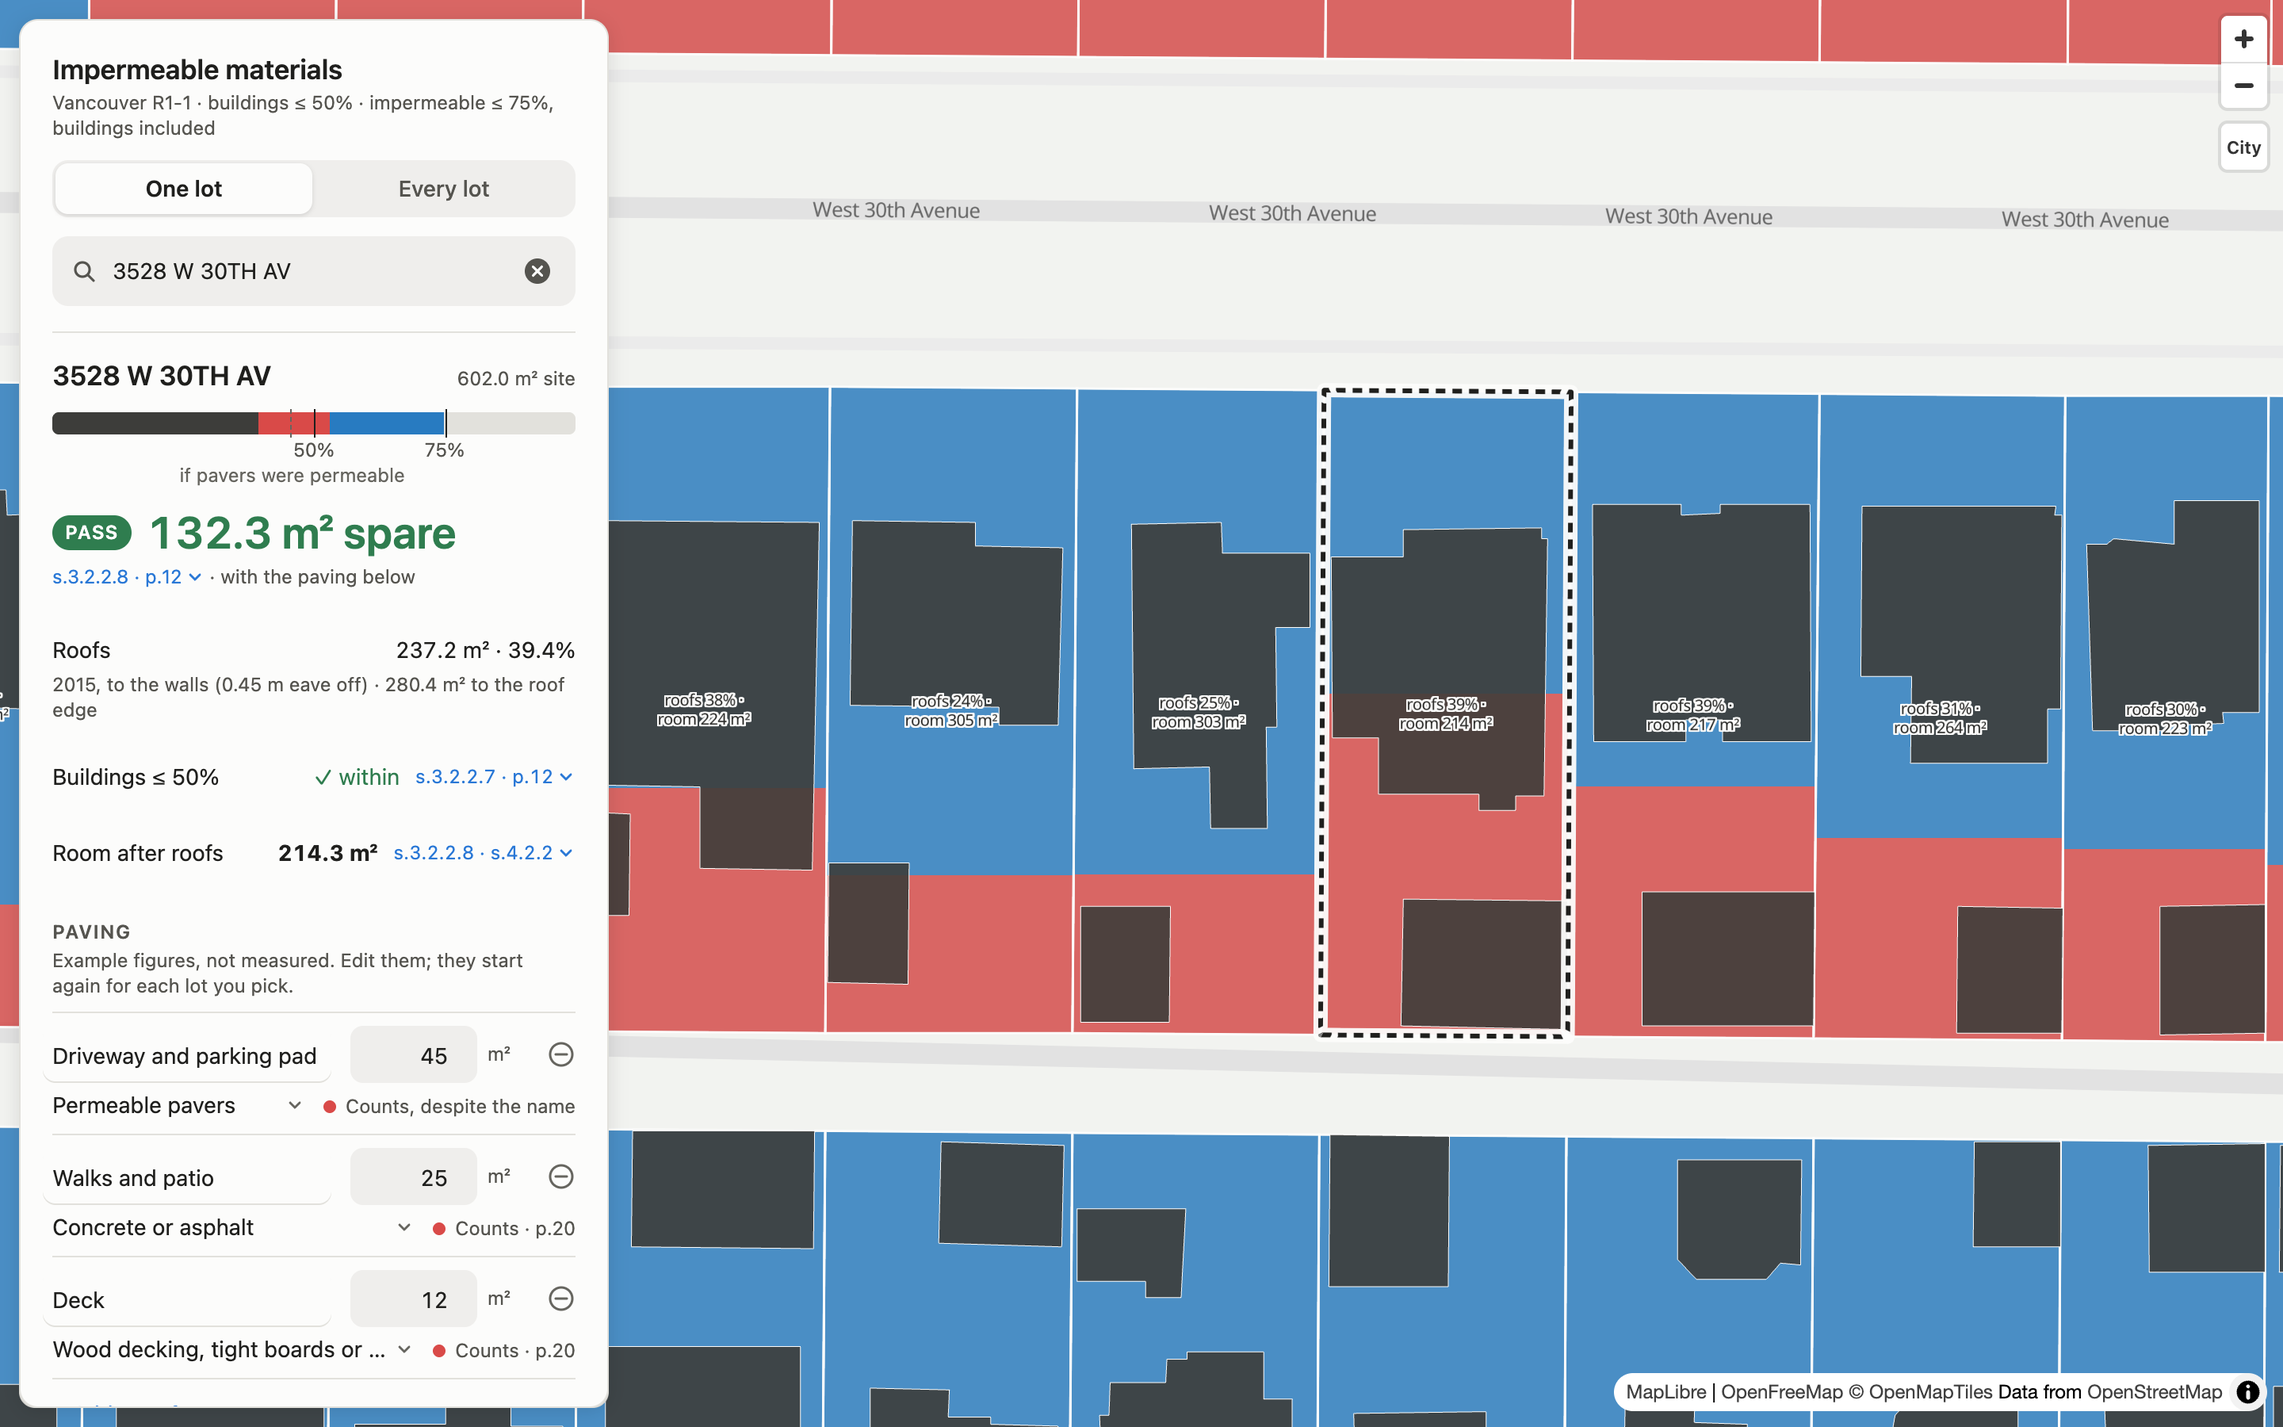
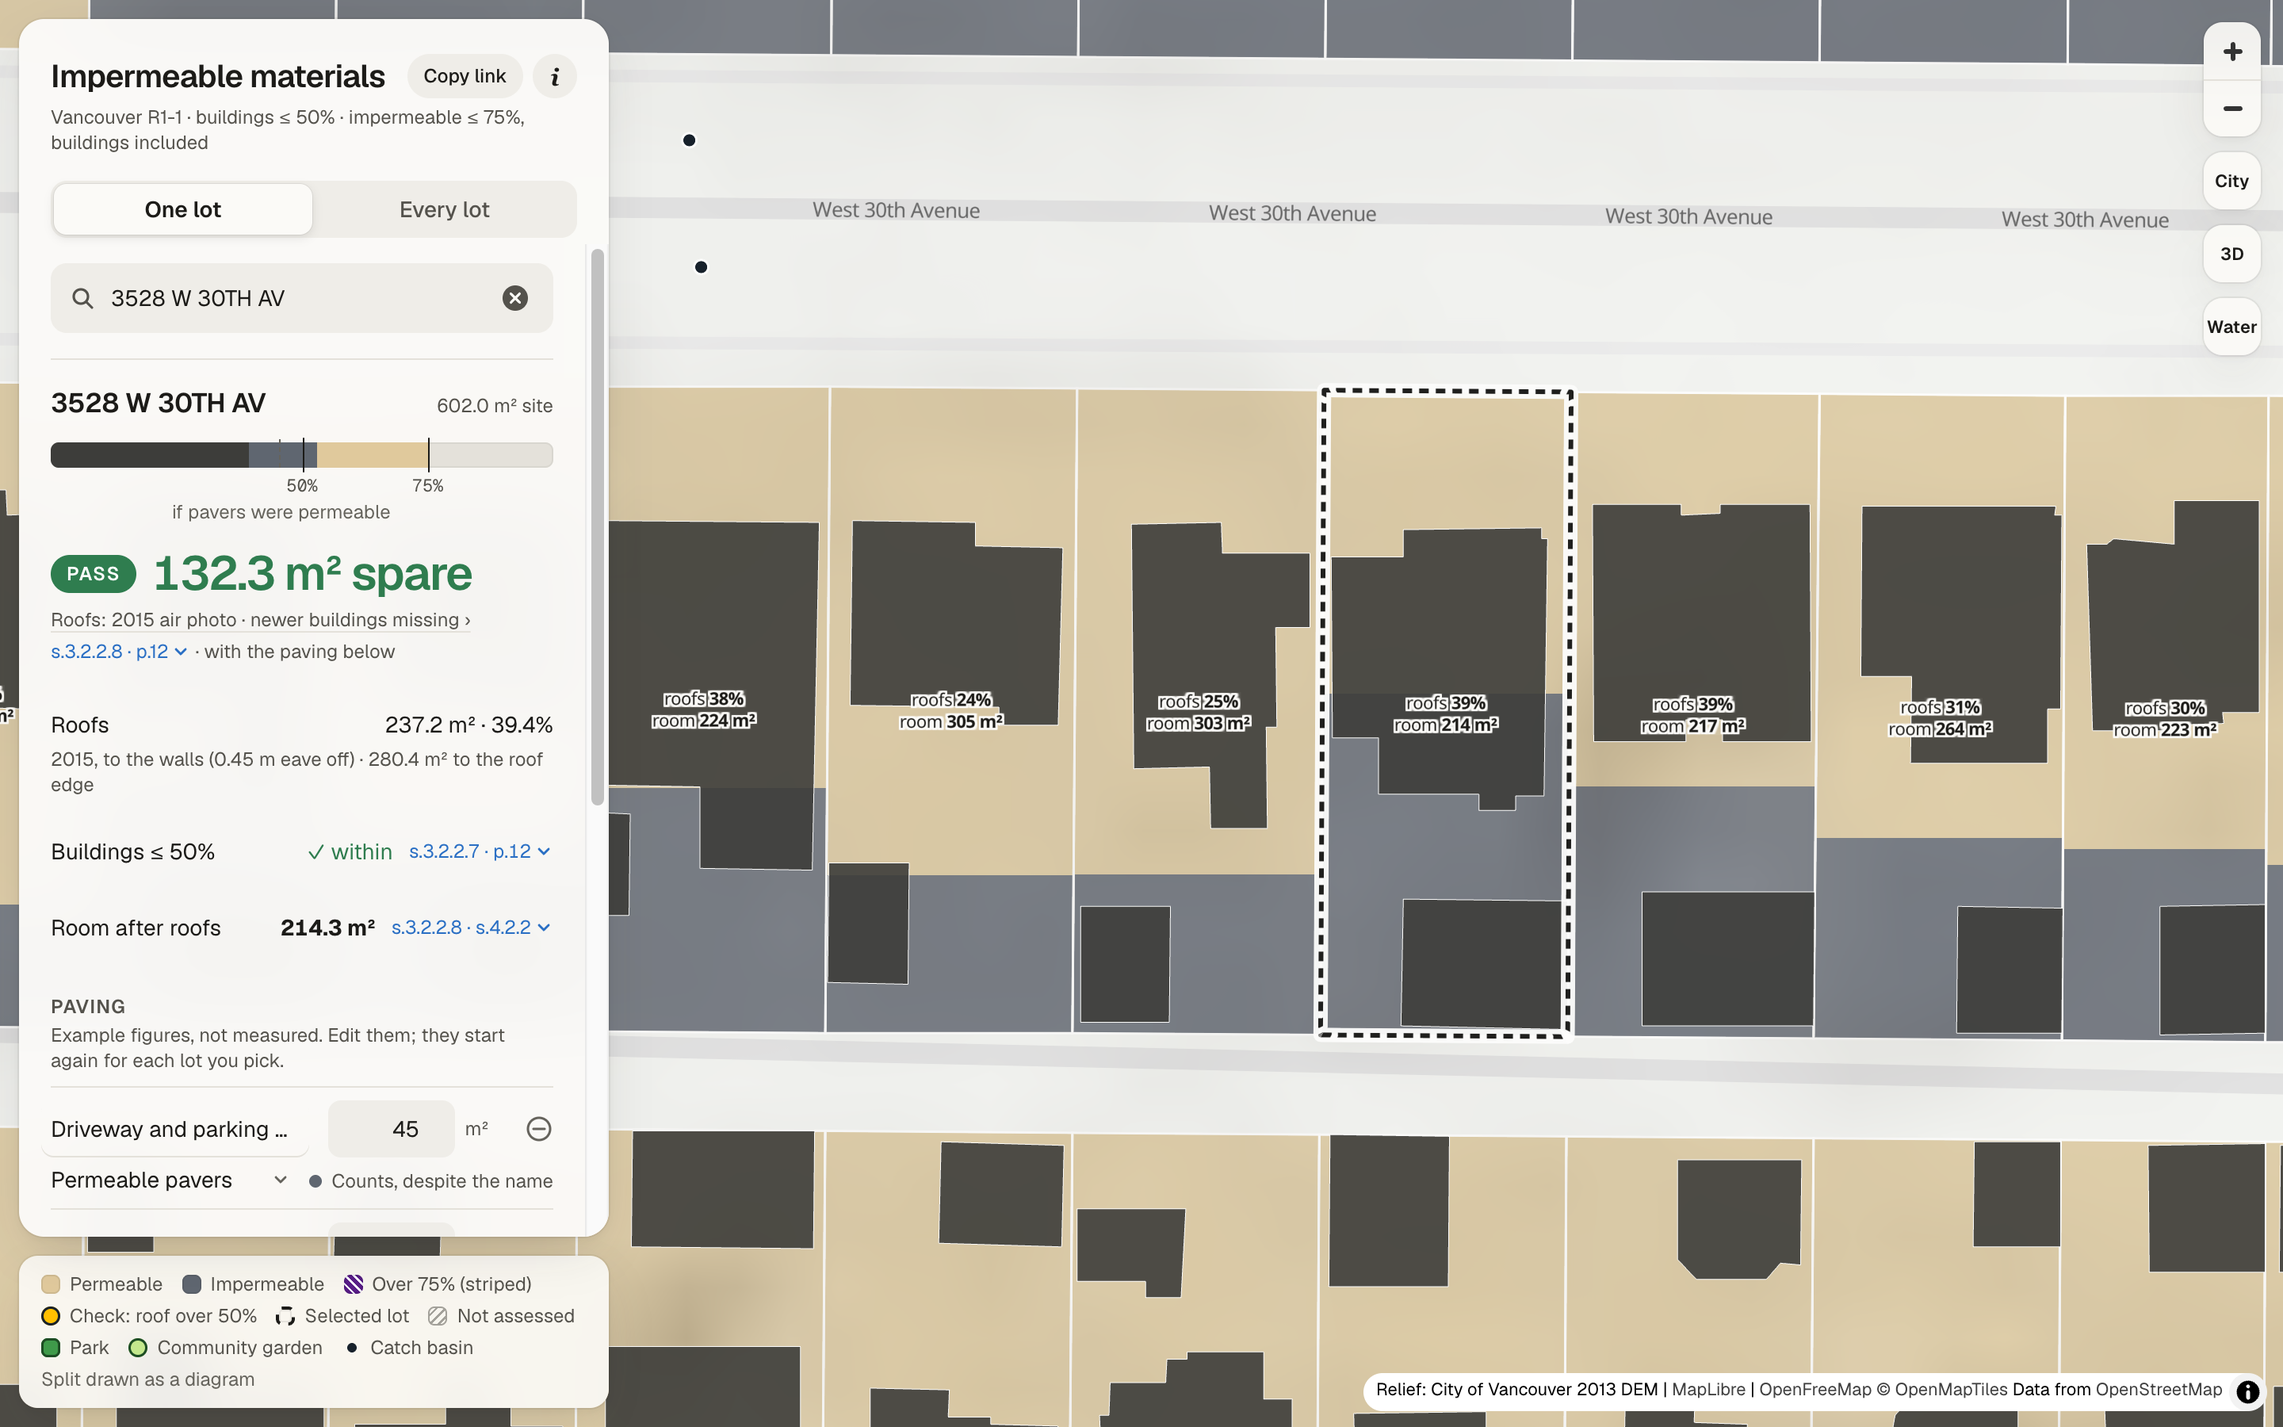
Bring the README up to date with the map
New counts (62,144 lots, 787 without a 2015 roof, 42,556 fit at the Rain
City point), sand/slate/striped-purple colours, the Rain City point and its
formula, the histogram, shareable links, the intro, the City/3D/Water views,
serve.py, the DEM scripts, and two fresh screenshots. Purpose is unchanged.

diff --git a/README.md b/README.md
@@ -25,17 +25,21 @@ Strategy climate goals.
 **In a browser.** Open the [live map](https://kevinjinn6.github.io/arch540-impermeable-materials/)
 on a laptop (it works on a phone, but the panel is easier on a wide screen).
 It needs an internet connection and loads about 8 MB of lot data, and the lot
-card fills in once it has loaded, opening up on 3528 W 30th Ave.
+card fills in once it has loaded, opening up on 3528 W 30th Ave. A short
+introduction appears on a first visit; the **i** button in the panel's header
+brings it back.
 
 1. **Pick a lot.** Click a lot on the map, or type a civic address in the
    search box the City's way (`3528 W 30TH AV` is the default lot, with suggestions that appear as you
    type) and press Enter. The map flies to it and draws a dashed line around
    it. The card leads with the answer: a bar where the whole site is 100%,
-   marked at 50% and 75% (dark is roof, red is paving, blue is room left,
-   purple is over the limit), then **PASS** or **FAIL** with the margin in
-   square metres. Under it: the 2015 roofs measured to the walls, the 50%
-   buildings rule, and the room s.3.2.2.8 leaves after the roofs. Tap any
-   blue reference, such as *s.3.2.2.8 · p.12*, to read that passage in place.
+   marked at 50% and 75% (dark is roof, slate is paving, sand is room left,
+   striped purple is over the limit), then **PASS** or **FAIL** with the
+   margin in square metres, and a reminder that the roofs come from the 2015
+   air photo (click it for the assumptions). Under it: the 2015 roofs
+   measured to the walls, the 50% buildings rule, and the room s.3.2.2.8
+   leaves after the roofs. Tap any blue reference, such as
+   *s.3.2.2.8 · p.12*, to read that passage in place.
 2. **Fill in what else is on the lot.** Under *Paving*, three example
    surfaces are filled in (a driveway in permeable pavers, walks in concrete,
    a deck). They are examples, not measurements. Rename a surface by typing
@@ -50,15 +54,35 @@ card fills in once it has loaded, opening up on 3528 W 30th Ave.
    check it by hand. The schedule starts again for each new lot.
 3. **Try the whole city.** Switch to **Every lot**. The slider sets the same
    impermeable share on every lot at once, from 0% (an empty lot) to 100%.
-   A house appears once its roofs fit within that share, and the mark at 75% is
-   the by-law maximum, and past it every lot shows a purple stripe for the
-   share over the limit. The purple tick on the slider is the selected lot's
-   own roof share. *Change ›* goes back to pick another lot.
-4. **See the storm water.** *48 mm storm* in Every lot, and *Storm* in a
-   lot's card, show how much of a 48 mm rain day the lots could hold. This
-   comes from the Rain City Strategy, a Council policy, **not the by-law**,
-   its assumptions are written beside it.
-5. **Read the rule.** *The by-law, verbatim*, at the foot of the panel,
+   The count above it is out of all 62,144 assessed lots: a lot fits once
+   its 2015 roofs fit within that share (the 787 lots with no 2015 roof fit
+   from 0%), and its house appears on the map. The mark at 75% is the by-law
+   maximum; past it every lot shows a striped purple band for the share over
+   the limit. The purple tick is the selected lot's own roof share. Under the
+   slider, a histogram shows the roof share of every lot, with lines at 50%,
+   75%, the Rain City point and the slider; the bars left of the slider are
+   the lots that fit. *Change ›* goes back to pick another lot.
+4. **See the storm water.** The line under the count gives the **Rain City
+   point**: the share of hard surface at which a lot keeps a 48 mm rain day
+   on site, sending nothing to the storm sewer (39.8%, against the by-law's
+   75%). It is the same on every lot, because the lot's area cancels out:
+   nothing overflows while 48 × (1 − h) + 0.85 × 48 × h ≤ 75 × (1 − h), so
+   h = (75 − 48) ÷ (75 − 48 + 0.85 × 48). The blue mark under the slider moves
+   it there. The two assumptions, 85% runoff and 75 mm of soil storage, can be
+   changed on the page, with *Reset to defaults*. *48 mm storm* shows where
+   the city's water goes at the slider, and *Storm* in a lot's card gives the
+   point in square metres for that lot. This comes from the Rain City
+   Strategy, a Council policy, **not the by-law**, and is labelled so
+   wherever it appears.
+5. **Share a view.** The page's address keeps the tab, the lot, the slider,
+   any changed storm assumptions and any edited paving. *Copy link* in the
+   header copies it; whoever opens it sees the same view.
+6. **Other views.** Under the zoom buttons, *City* zooms out to the whole
+   city, *3D* tilts the map over the 2013 ground with the 2015 buildings at
+   their heights, and *Water* shows where rain runs and ponds once it leaves
+   the lots (also not the by-law; its card explains the model). Parks,
+   community gardens and street catch basins are drawn for context.
+7. **Read the rule.** *The by-law, verbatim*, at the foot of the panel,
    quotes s.3.2.2.7, s.3.2.2.8, s.4.2.2 and the Section 2 definitions word
    for word, with their pages in the June 2026 consolidation, then the
    assumptions and the sources.
@@ -66,8 +90,11 @@ card fills in once it has loaded, opening up on 3528 W 30th Ave.
 **Locally.** The page needs a small web server to load its data files:
 
 ```bash
-cd map && python3 -m http.server      # then open http://localhost:8000
+cd map && python3 serve.py      # then open http://localhost:8000
 ```
+
+(`python3 -m http.server` also works, but drops some of the 3D view's ground
+tiles.)
 
 **In Rhino 8.** Download or clone this repository (green **Code** button on
 GitHub → *Download ZIP*, then unzip it). In Rhino 8 type `ScriptEditor` and
@@ -93,7 +120,17 @@ pip install -r requirements.txt
 python stormwater.py          # R1-1 parcels            -> r11_stormwater.geojson
 python buildings.py           # sites, 2015 roofs       -> map/data/lots.geojson, buildings.geojson
 python map/roof_walls.py      # roofs to the walls      -> map/data/roof-walls.json
+python map/park_lots.py       # empty park land, not assessed -> map/data/park-lots.json
 python3 map/check_data.py     # the figures below still hold?
+```
+
+The shaded relief and the 3D ground come from the City's 2013 elevation model
+(`DEM_2013.tif`, 1.9 GB, not committed; put it in the project folder):
+
+```bash
+python map/terrain_tiles.py   # relief and ground tiles   -> map/data/relief/, map/data/terrain/
+python map/lot_ground.py      # ground under every lot    -> map/data/lot-ground.bin
+python map/water_layers.py    # where the water goes      -> map/data/water.json, flow-paths, low spots
 ```
 
 ## Source
@@ -103,7 +140,8 @@ python3 map/check_data.py     # the figures below still hold?
 | Zoning and Development By-law No. 3575, **R1-1 District Schedule** (`sources/zoning-by-law-district-schedule-r1-1.pdf`) | June 2026 consolidation, 17 pp. | s.3.2 and s.3.2.2.1 (p.12), **s.3.2.2.7** and **s.3.2.2.8** (p.12), s.2.2.4 (p.5), **s.4.2.2** (p.16) |
 | Zoning and Development By-law No. 3575, **Section 2 Definitions** (`sources/zoning-by-law-section-2.pdf`) | June 2026 consolidation, 50 pp. | **Impermeable Materials** (p.20), **Permeable Materials** (p.31), Deck (p.11), Patio (p.30), Site (p.43) |
 | City of Vancouver open data | property parcel polygons (retrieved 2026-09-21), building footprints 2015 and 2009 (2026-09-25) | site outlines and areas, roof footprints, heights for the Rhino drawing only |
-| Rain City Strategy (2019) | Council policy, **not a by-law** | the 48 mm daily design standard in the storm card, as context |
+| City of Vancouver open data | 2013 digital elevation model; parks, community gardens, catch basins (2026) | the shaded relief, the 3D ground and the Water view; context only, in no compliance figure |
+| Rain City Strategy (2019) | Council policy, **not a by-law** | the 48 mm daily design standard in the storm card and the Rain City point, as context |
 
 Every passage is quoted verbatim, with its page, in
 [`sources/r1-1-impermeable-extract.md`](sources/r1-1-impermeable-extract.md),
@@ -128,21 +166,24 @@ map opens on it:
 
 Check by hand: 0.75 × 602.04 = 451.53; 451.53 − 237.22 = 214.31 m².
 
-Citywide, with the same hard landscaping added to each of the 62,188 assessed
-lots: 60 m² of concrete puts 157 lots over 75%; 90 m² puts 1,374 over; 120 m²
-puts 10,944 over. The same square metres of permeable pavers give exactly the
-same counts. Gravel leaves one lot over, whose roof alone exceeds 75%.
+Citywide, across all 62,144 assessed lots: at the 75% by-law maximum,
+62,143 lots fit (one lot's roofs alone are over 75%). At the Rain City point,
+39.8%, 42,556 lots fit, 68.5%: for the other 19,588, the roofs alone already
+cover more of the site than a lot can have and still keep a 48 mm rain day on
+site. Half the lots have roofs on 36.0% of the site or less. 787 assessed lots
+have no roof in the 2015 footprints and count as 0% roofs.
 
 **Input:** search `3528 W 30TH AV`; leave the example paving as it is.
 **Result:** PASS, 132.3 m² spare. The selected lot on the map shows the same
 split as its bar.
 
-![The map on 3528 W 30th Ave: the lot card reads PASS, 132.3 m² spare, with the bar marked at 50% and 75% and the example paving schedule; the lot is outlined with a dashed line on the map](output/map-3528-w-30th-ave.png)
+![The map on 3528 W 30th Ave: the lot card reads PASS, 132.3 m² spare, with the bar marked at 50% and 75% and the example paving schedule; the lot is outlined with a dashed line on the map, its neighbours in sand and slate](output/map-3528-w-30th-ave.png)
 
 The same lot in *Every lot* with the slider at the 75% by-law maximum:
-61,356 of 61,357 houses fit, and the purple tick is this lot's roofs at 39.4%.
+62,143 of 62,144 lots fit, the purple tick is this lot's roofs at 39.4%, and
+the blue mark is the Rain City point at 39.8%.
 
-![Every lot mode at 75%: the citywide map in red and blue, the slider at the by-law maximum, and 61,356 of 61,357 houses fit](output/map-every-lot-75.png)
+![Every lot mode at 75%: the citywide map in sand and slate over the shaded relief, the slider at the by-law maximum, 62,143 of 62,144 lots fit, the Rain City line at 39.8% and the roof-share histogram](output/map-every-lot-75.png)
 
 ![The same lot drawn by map/rhino_site.py in Rhino 8: the site with its 2015 roofs and the eave allowance, and the area bar marked at 50% and 75%](output/3528-w-30th-ave-map-plan.png)
 
@@ -194,7 +235,9 @@ against the source by hand.
   0.45 m eave allowance is taken off for the by-law test and both figures are
   shown. Measured to the roof edge 13,581 assessed sites read over 50%,
   measured to the walls, 769. The air photo cannot tell which is right for
-  any one house, so those 769 are marked *check*, not *exceedance*.
+  any one house, so those 769 are marked *check*, not *exceedance*. 787
+  assessed lots have no 2015 roof at all (empty, or between a teardown and a
+  new house, when the photo was taken); they count as 0% roofs.
 - **Driveways, patios and walks are in no City dataset.** The lot schedule
   and the slider are hypotheses you set, they are not a survey of existing
   paving. The page is not a compliance finding.
@@ -204,8 +247,9 @@ against the source by hand.
   Section 11 (s.2.2.4), which is not in this repository, the map counts them
   as buildings.
 - **A site is parcels sharing an address and an edge** (Section 2, Site).
-  Sites over 2,000 m², road allowances, parcels under 150 m² and parcels the
-  pipeline flagged are drawn grey and not assessed. Parcels below the 306 m²
+  Sites over 2,000 m², road allowances, parcels under 150 m², parcels the
+  pipeline flagged and park land with no building are hatched and not
+  assessed. Parcels below the 306 m²
   minimum site area of s.3.2.2.1 are assessed but labelled.
 - **Two readings are the author's**, and the page says so where it relies on
   them: the on-grade, no-impermeable-layer condition applied to every listed
@@ -213,9 +257,16 @@ against the source by hand.
   counted as wood, so impermeable.
 - **The split drawn inside each lot is a diagram**, a share of the lot's
   depth from the south edge, not where the surfaces are.
-- **The storm card is Rain City Strategy context**, not the by-law. The R1-1
-  schedule sets no retention requirement: 85% runoff and 75 mm of soil
-  storage are this page's assumptions.
+- **The storm card and the Rain City point are Rain City Strategy context**,
+  not the by-law. The R1-1 schedule sets no retention requirement: 85% runoff
+  and 75 mm of soil storage are this page's assumptions (they can be changed
+  on the page). "On site" means nothing reaches the storm sewer; the 15% of
+  rain on hard surfaces that does not run off stays where it falls.
+- **The relief and 3D ground are pictures** from the 2013 elevation model,
+  cut to the city boundary; no figure uses them. Outside the city the 3D
+  ground is invented, a smooth surface easing down to sea level.
+- **Colours are checked for colour blindness** (simulated protanopia,
+  deuteranopia and tritanopia), and *over 75%* is striped as well as purple.
 - It cannot know what the Director of Planning will accept as permeable.
 
 ## Reviews and revision
@@ -235,10 +286,17 @@ Peer reviews from class are GitHub issues on this repository.
 README.md                     you are here
 map/
   index.html                  THE TOOL: the map, one lot's card and schedule, the citywide slider
+  water.js                    the Water view: where rain goes once it leaves the lots
+  serve.py                    local web server for the map (python3 serve.py)
   rhino_site.py               draws any lot from the map's data in Rhino 8
   roof_walls.py               roof area to the walls per site -> data/roof-walls.json
+  park_lots.py                empty park land zoned R1-1, not assessed -> data/park-lots.json
+  terrain_tiles.py            shaded relief and 3D ground from the 2013 DEM -> data/relief/, data/terrain/
+  lot_ground.py               ground height under every lot corner, for 3D -> data/lot-ground.bin
+  water_layers.py             flow paths and low spots for the Water view -> data/water.json, ...
   check_data.py               smoke test of the data files; run by the Pages workflow
-  data/                       the published snapshot: lots.geojson, buildings.geojson, roof-walls.json
+  data/                       the published snapshot: lots, buildings, roofs to the walls, parks,
+                              gardens, catch basins, relief and terrain tiles, water
 buildings.py                  the pipeline: parcels -> sites, 2015 roofs clipped and summed
 stormwater.py                 Stage 1: finds the R1-1 parcels (and a citywide stormwater analysis)
 requirements.txt              pinned versions for the pipeline
